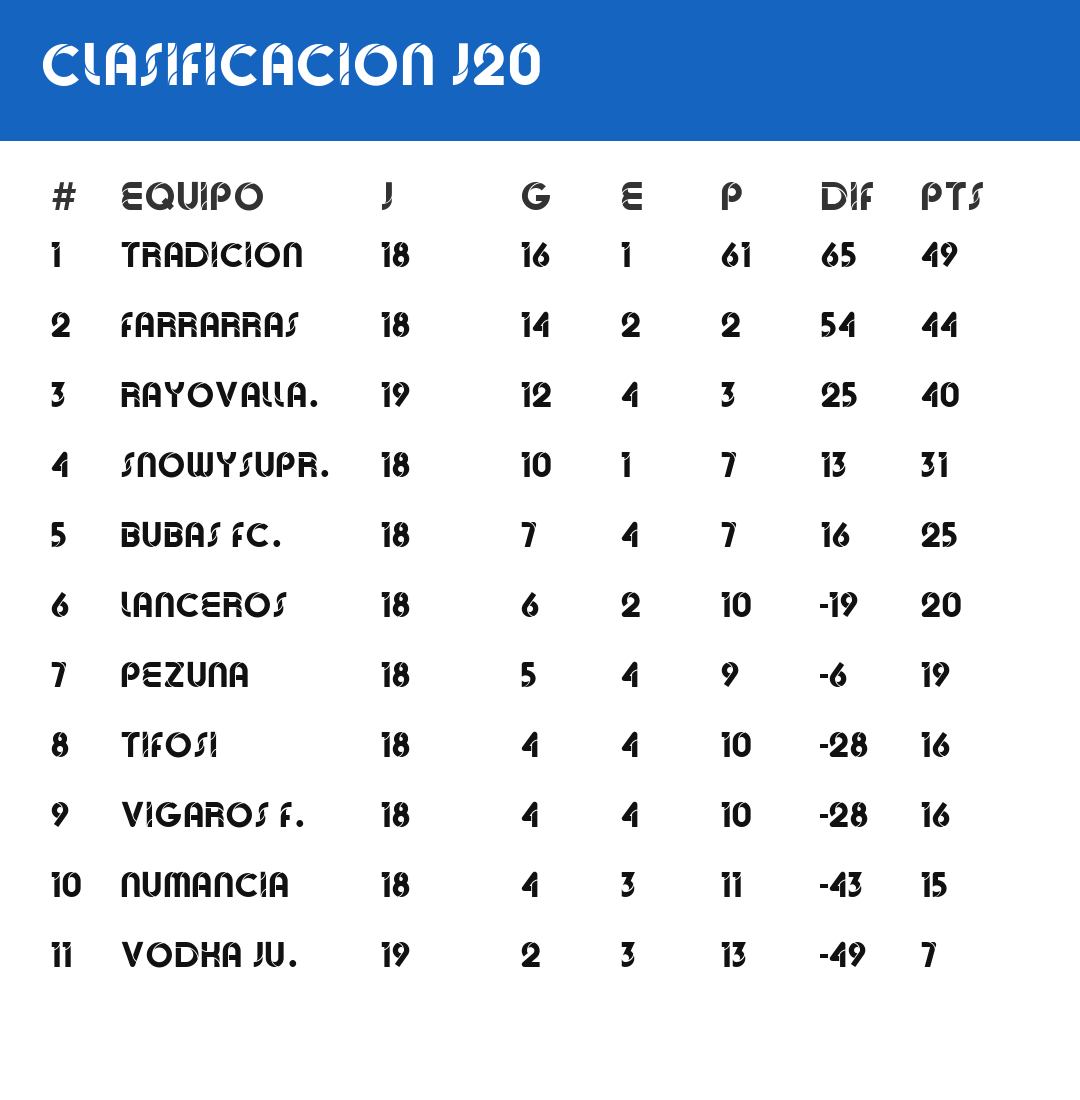
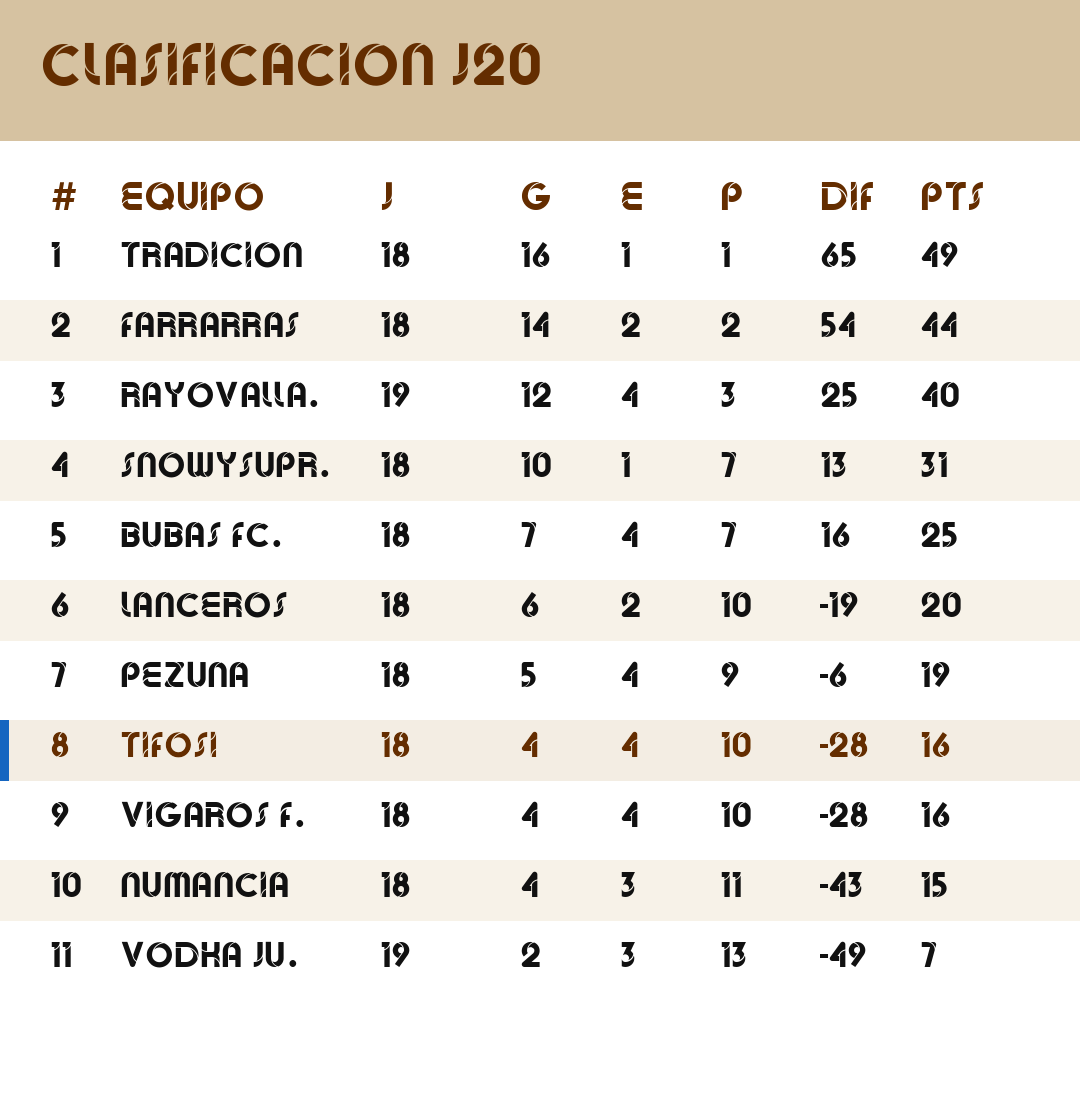
Up raro

Changed region(s): [[0.0, 0.0, 1.0, 0.2164], [0.0, 0.6491, 1.0, 0.7109], [0.6722, 0.2164, 0.7028, 0.2473]]

diff --git a/index.html b/index.html
@@ -6,8 +6,8 @@
 
 <style>
 body { font-family: Arial; background:#f2f2f2; margin:0; text-align:center;}
-h1 { background:#1565c0; color:white; padding:20px; margin:0;}
-h3 { color:#1565c0; margin:0 0 10px;}
+h1 { background:#d6c2a1; color:white; padding:20px; margin:0;}
+h3 { color:#642d00; margin:0 0 10px;}
 .container { max-width:500px; margin:auto; padding:10px;}
 
 .card { background:white; border-radius:15px; padding:15px; margin:15px 0;
@@ -19,15 +19,19 @@ box-shadow:0 4px 10px rgba(0,0,0,0.1); }
 img { width:100%; border-radius:12px;}
 
 table { width:100%; border-collapse:collapse;}
-th { background:#d6c2a1; color:#642d00; padding:8px; border-bottom:2px solid #642d00;}
+table th { background-color:#d6c2a1 !important; color:#642d00 !important; padding:8px; border-bottom:2px solid #642d00; text-transform: uppercase; }
 tr:nth-child(even) td { background:#f7f2e8; }
 td { padding:6px; border-bottom:1px solid rgba(0,0,0,0.08);}
 
 .tifosi {
-  background: linear-gradient(90deg, rgba(214,194,161,0.25), rgba(21,101,192,0.18));
+  background: linear-gradient(90deg, rgba(214,194,161,0.30), rgba(94, 56, 0, 0.18));
   font-weight:bold;
   color:#d6c2a1;
   border-left:4px solid #642d00;
+}
+
+.tifosi td {
+  color: #d6c2a1;
 }
 
 ul { list-style:none; padding:0;}
@@ -131,9 +135,31 @@ async function cargarDatos(){
 
   // CLASIFICACION
   let clas = await getJSON('data/clasificacion.json') || [];
+  proximo = await getJSON('data/proximo.json');
 
   let cont = document.getElementById("clasificacion");
   cont.innerHTML = "";
+
+  // Intentar mostrar imagen de clasificación si existe
+  let jornada = proximo && proximo.jornada ? proximo.jornada : 1;
+  let imgClasPath = `imagenes/j${jornada}/clasificacion/j${jornada}_clasificacion.png`;
+
+  // Verificar si la imagen existe (haciendo una petición HEAD)
+  try {
+    let response = await fetch(imgClasPath, { method: 'HEAD' });
+    if (response.ok) {
+      // Mostrar imagen
+      let img = document.createElement("img");
+      img.src = imgClasPath + "?t=" + Date.now(); // Cache busting
+      img.alt = "Clasificación";
+      img.style.width = "100%";
+      img.style.borderRadius = "12px";
+      cont.appendChild(img);
+      return; // Salir, no mostrar tabla
+    }
+  } catch (e) {
+    // Imagen no existe, continuar con tabla
+  }
 
   if(Array.isArray(clas) && clas.length){
 
@@ -149,7 +175,7 @@ async function cargarDatos(){
       if (parts.length === 0) return name;
       let short = parts[0];
       if (parts.length > 1) {
-        let second = parts[1].replace(/[^-\p{L}\p{N}]/gu, '');
+        let second = parts[1].replace(/[^A-Za-zÁÉÍÓÚÜÑáéíóúüñ0-9]/g, '');
         second = second.slice(0, 2);
         if (second) {
           short = `${parts[0]} ${second}.`;
@@ -164,7 +190,7 @@ async function cargarDatos(){
     clas.forEach((e,i)=>{
       let row = document.createElement("tr");
 
-      if(e.equipo==="Tifosi"){
+      if (e.equipo && e.equipo.trim().toLowerCase() === "tifosi") {
         row.classList.add("tifosi");
       }
 

diff --git a/image_generator.py b/image_generator.py
@@ -418,34 +418,56 @@ def generar_clasificacion(jornada, clasificacion):
     img = Image.new("RGBA", (ancho, alto), "#ffffff")
     draw = ImageDraw.Draw(img)
 
+    # Colores del escudo
+    COLOR_BEIGE = "#d6c2a1"
+    COLOR_AZUL = "#1565c0"
+    COLOR_MARRON = "#642d00"
+    COLOR_GRIS_CLARO = "#f7f2e8"
+
     title_font = ImageFont.truetype("fonts/Bauman-Regular.ttf", 60)
     header_font = ImageFont.truetype("fonts/Bauman-Regular.ttf", 40)
     row_font = ImageFont.truetype("fonts/Bauman-Regular.ttf", 36)
 
-    draw.rectangle([(0, 0), (ancho, 140)], fill="#1565c0")
-    draw.text((40, 40), normalize_text(f"Clasificación J{jornada}"), fill="white", font=title_font)
+    # Cabecera con colores del escudo
+    draw.rectangle([(0, 0), (ancho, 140)], fill=COLOR_BEIGE)
+    draw.text((40, 40), normalize_text(f"Clasificación J{jornada}"), fill=COLOR_MARRON, font=title_font)
 
     x_pos = [50, 120, 380, 520, 620, 720, 820, 920]
-    draw.text((x_pos[0], 180), "#", fill="#333333", font=header_font)
-    draw.text((x_pos[1], 180), "Equipo", fill="#333333", font=header_font)
-    draw.text((x_pos[2], 180), "J", fill="#333333", font=header_font)
-    draw.text((x_pos[3], 180), "G", fill="#333333", font=header_font)
-    draw.text((x_pos[4], 180), "E", fill="#333333", font=header_font)
-    draw.text((x_pos[5], 180), "P", fill="#333333", font=header_font)
-    draw.text((x_pos[6], 180), "DIF", fill="#333333", font=header_font)
-    draw.text((x_pos[7], 180), "Pts", fill="#333333", font=header_font)
+    # Encabezados con colores del escudo
+    draw.text((x_pos[0], 180), "#", fill=COLOR_MARRON, font=header_font)
+    draw.text((x_pos[1], 180), "Equipo", fill=COLOR_MARRON, font=header_font)
+    draw.text((x_pos[2], 180), "J", fill=COLOR_MARRON, font=header_font)
+    draw.text((x_pos[3], 180), "G", fill=COLOR_MARRON, font=header_font)
+    draw.text((x_pos[4], 180), "E", fill=COLOR_MARRON, font=header_font)
+    draw.text((x_pos[5], 180), "P", fill=COLOR_MARRON, font=header_font)
+    draw.text((x_pos[6], 180), "DIF", fill=COLOR_MARRON, font=header_font)
+    draw.text((x_pos[7], 180), "Pts", fill=COLOR_MARRON, font=header_font)
 
     y = 240
     for item in clasificacion:
         dif = item.get("dif") if item.get("dif") is not None else item.get("favor", 0) - item.get("contra", 0)
-        draw.text((x_pos[0], y), str(item["pos"]), fill="#111111", font=row_font)
-        draw.text((x_pos[1], y), normalize_text(abbreviate_team(item["equipo"])), fill="#111111", font=row_font)
-        draw.text((x_pos[2], y), str(item["pj"]), fill="#111111", font=row_font)
-        draw.text((x_pos[3], y), str(item.get("g", 0)), fill="#111111", font=row_font)
-        draw.text((x_pos[4], y), str(item.get("e", 0)), fill="#111111", font=row_font)
-        draw.text((x_pos[5], y), str(item.get("p", 0)), fill="#111111", font=row_font)
-        draw.text((x_pos[6], y), str(dif), fill="#111111", font=row_font)
-        draw.text((x_pos[7], y), str(item.get("pts", 0)), fill="#111111", font=row_font)
+
+        # Resaltar fila de Tifosi con colores del escudo
+        if item["equipo"].strip().lower() == "tifosi":
+            # Fondo degradado para la fila completa
+            draw.rectangle([(0, y-10), (ancho, y+50)], fill=(214, 194, 161, 77))  # Beige con transparencia
+            # Borde izquierdo azul
+            draw.rectangle([(0, y-10), (8, y+50)], fill=COLOR_AZUL)
+            text_color = COLOR_MARRON  # Texto más oscuro para contraste
+        else:
+            # Filas alternas con fondo claro
+            if (y // 70) % 2 == 0:
+                draw.rectangle([(0, y-10), (ancho, y+50)], fill=COLOR_GRIS_CLARO)
+            text_color = "#111111"
+
+        draw.text((x_pos[0], y), str(item["pos"]), fill=text_color, font=row_font)
+        draw.text((x_pos[1], y), normalize_text(abbreviate_team(item["equipo"])), fill=text_color, font=row_font)
+        draw.text((x_pos[2], y), str(item["pj"]), fill=text_color, font=row_font)
+        draw.text((x_pos[3], y), str(item.get("g", 0)), fill=text_color, font=row_font)
+        draw.text((x_pos[4], y), str(item.get("e", 0)), fill=text_color, font=row_font)
+        draw.text((x_pos[5], y), str(item.get("p", 0)), fill=text_color, font=row_font)
+        draw.text((x_pos[6], y), str(dif), fill=text_color, font=row_font)
+        draw.text((x_pos[7], y), str(item.get("pts", 0)), fill=text_color, font=row_font)
         y += 70
 
     jornada_label = f"j{jornada}"
